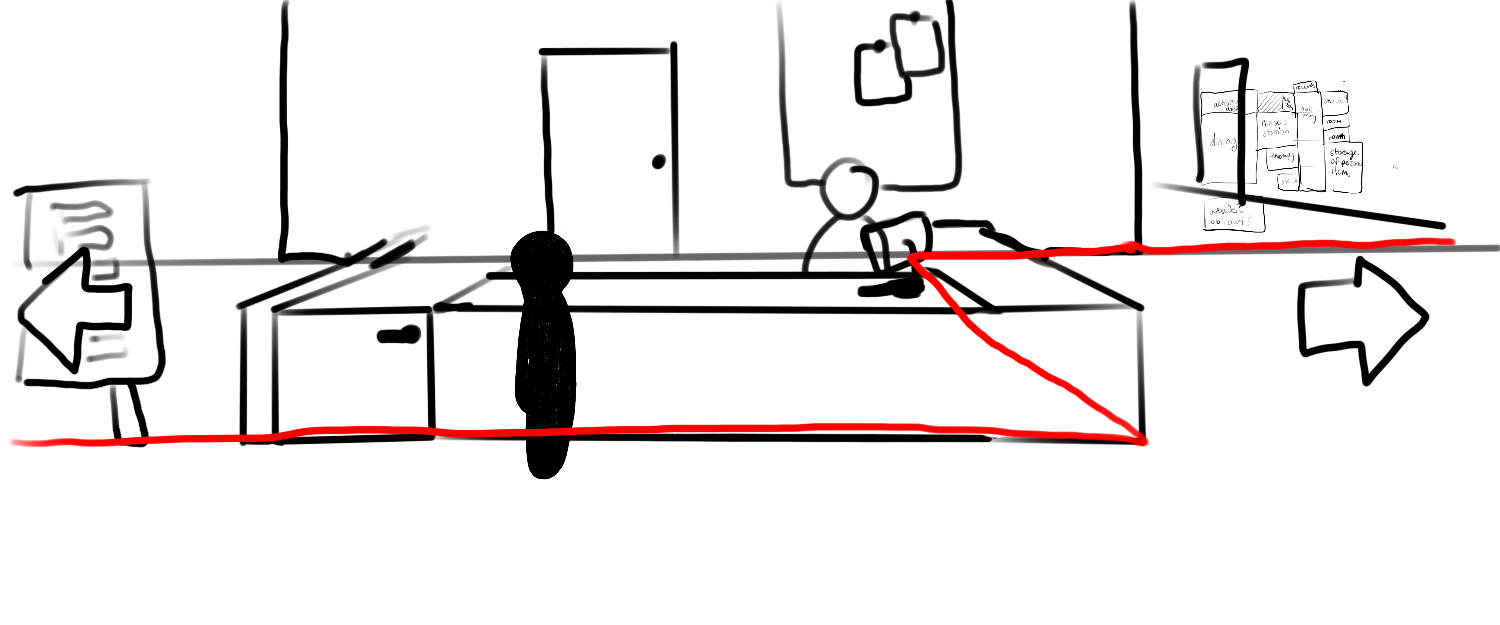
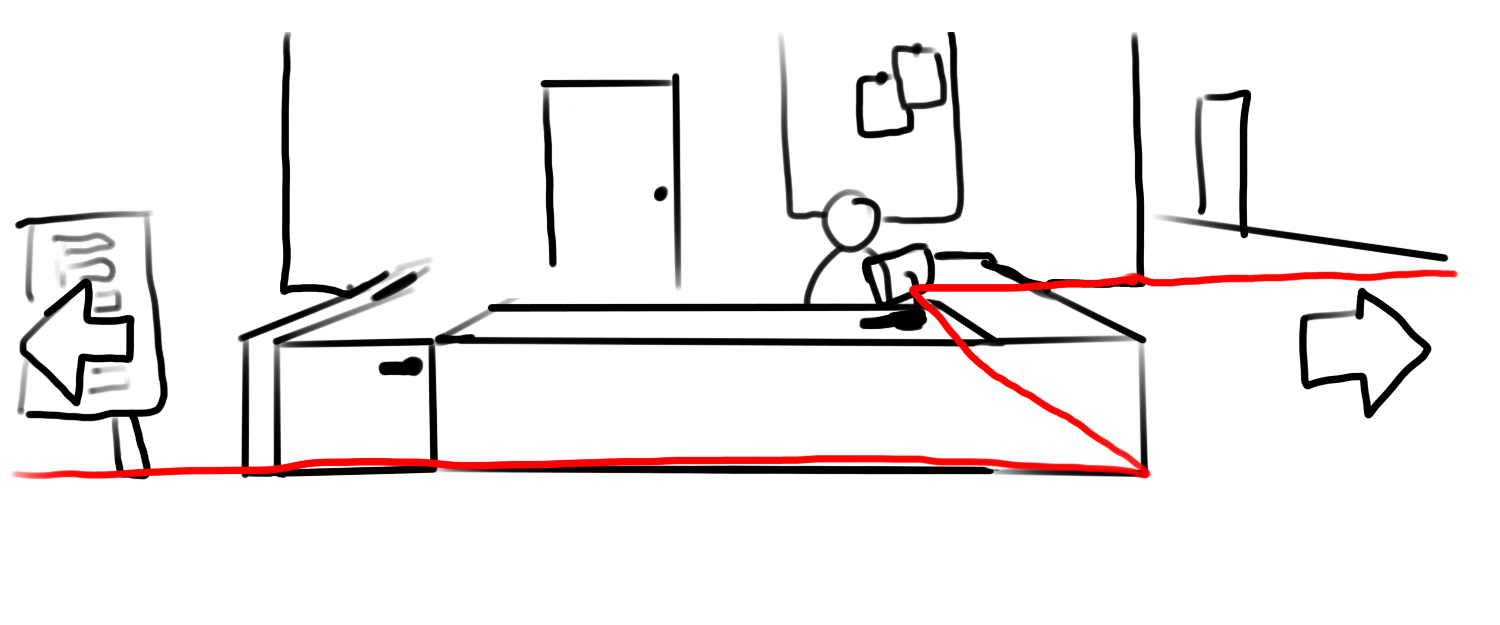
Added ability to move between rooms

diff --git a/sketch.js b/sketch.js
@@ -10,8 +10,8 @@ class GameState{
   nextRoomIndex;
   constructor(){
     this.gameStarted = true;
-    this.roomIndex = 5;
-    this.roomArray = [new Room(), new DiningRoom(), new CommonRoom(), new HallWay1(), new HallWay2(), new HallWay3()];
+    this.roomIndex = 6;
+    this.roomArray = [new Room(), new DiningRoom(), new CommonRoom(), new HallWay1(), new HallWay2(), new HallWay3(), new NurseStation];
   }
   runCurrentRoom(){
     this.roomArray[this.roomIndex].runRoom();
@@ -90,7 +90,7 @@ class HallWay2 extends HallWay{
   constructor(){
     super();
     this.background = loadImage("assets/rooms/hallway2.png");
-    this.arrows = [new arrow("leftArrow", 232, 293, 0), new arrow("forwardArrow", 728, 226,  5), new arrow("rightDoorArrow", 1196, 394, 0), new arrow("backArrow", 731, 558, 3)];
+    this.arrows = [new arrow("leftArrow", 232, 293, 6), new arrow("forwardArrow", 728, 226,  5), new arrow("rightDoorArrow", 1196, 394, 0), new arrow("backArrow", 731, 558, 3)];
   }
 }
 class HallWay3 extends HallWay{
@@ -100,11 +100,26 @@ class HallWay3 extends HallWay{
     this.arrows = [new arrow("backArrow", 731, 558, 4), new arrow("leftDoorArrow", 286, 397, 0), new arrow("rightDoorArrow", 1171, 425, 0)];
   }
 }
+class NurseStation extends Room{
+  constructor(){
+    super();
+    this.background = loadImage("assets/rooms/nurseStation.png");
+    this.arrows = [new arrow("leftArrow", 63, 338, 1, 150), new arrow("rightArrow", 1300, 405, 4, 0, -80)]
+    
+  }
+  runRoom(){
+    image(this.background, 0, 0);
+    super.runRoom();
+  }
+  isValidPosition(vx, vy){
+    return super.isValidPosition(vx, vy) && ((vx > 960) || vy > 380);
+  }
+}
 class CommonRoom extends Room{
   constructor(){
     super();
     this.background = loadImage("assets/rooms/commonRoom.png");
-    this.horizontalLength = 1500;
+    this.arrows = [new arrow("backArrow", 709, 542, 1), new arrow("leftDoorArrow", 169, 266, 0 ,10, 200)]
   }
   runRoom(){
     image(this.background, 0, 0);
@@ -122,7 +137,7 @@ class DiningRoom extends Room{
   constructor(){
     super();
     this.background = loadImage("assets/rooms/diningRoom.png");
-    this.horizontalLength = 1500;
+    this.arrows = [new arrow("rightArrow", 1386, 314), new arrow("forwardArrow", 745, 210, 2)];
   }
   runRoom(){
     image(this.background, 0, 0);
@@ -142,11 +157,11 @@ class arrow{
   nextRoom;
   apparentX;
   apparentY;
-  constructor(imageName, x, y, nextRoom){
+  constructor(imageName, x, y, nextRoom, xOffset = 0, yOffset = 0){
     this.imgFile = loadImage(`assets/arrows/${imageName}.png`);
     this.imgFileM = loadImage(`assets/arrows/${imageName}M.png`);
-    this.xPos = 0;
-    this.yPos = 0;
+    this.xPos = 0 - xOffset;
+    this.yPos = 0 - yOffset;
     this.apparentX = x;
     this.apparentY = y;
     this.xWidth = width;
@@ -187,8 +202,8 @@ class Player{
   lowerStressWalkR;
 
   constructor(){
-    this.xPos = 400;
-    this.yPos = 300;
+    this.xPos = 800;
+    this.yPos = 400;
     this.stress = 1;
     this.direction = 0;
     this.standLeft = this.createAnimation("stand","Left", this.stress);
